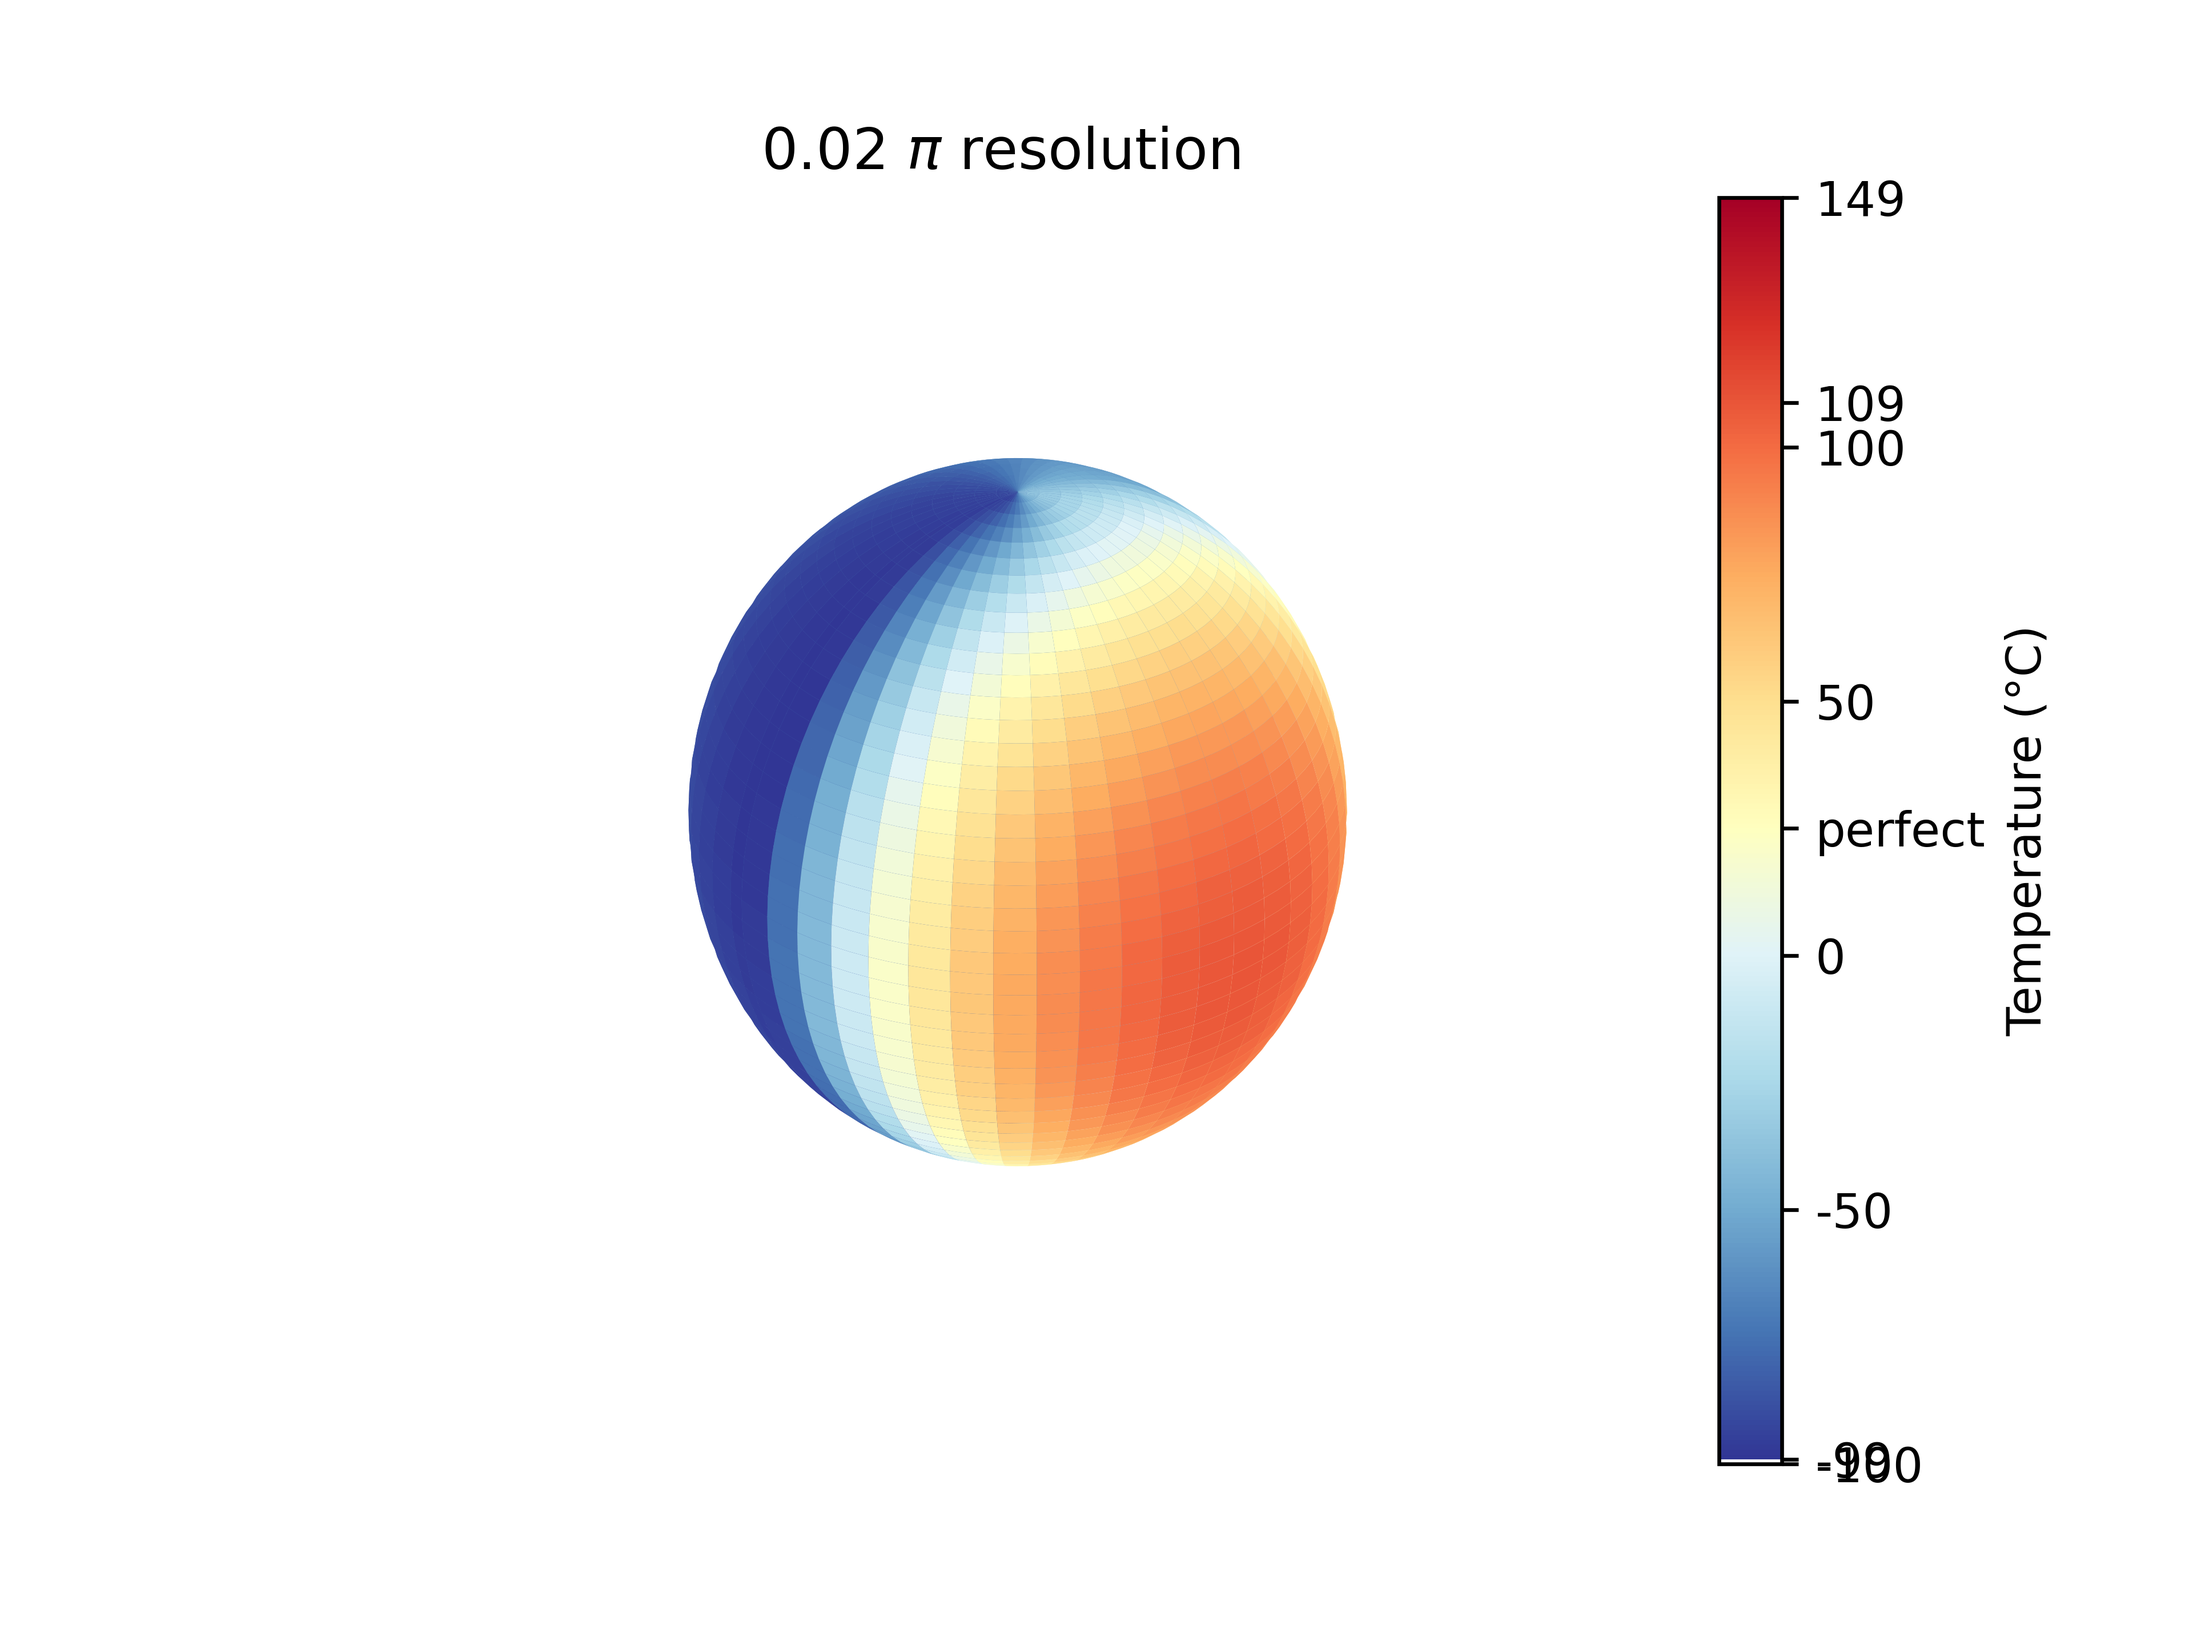
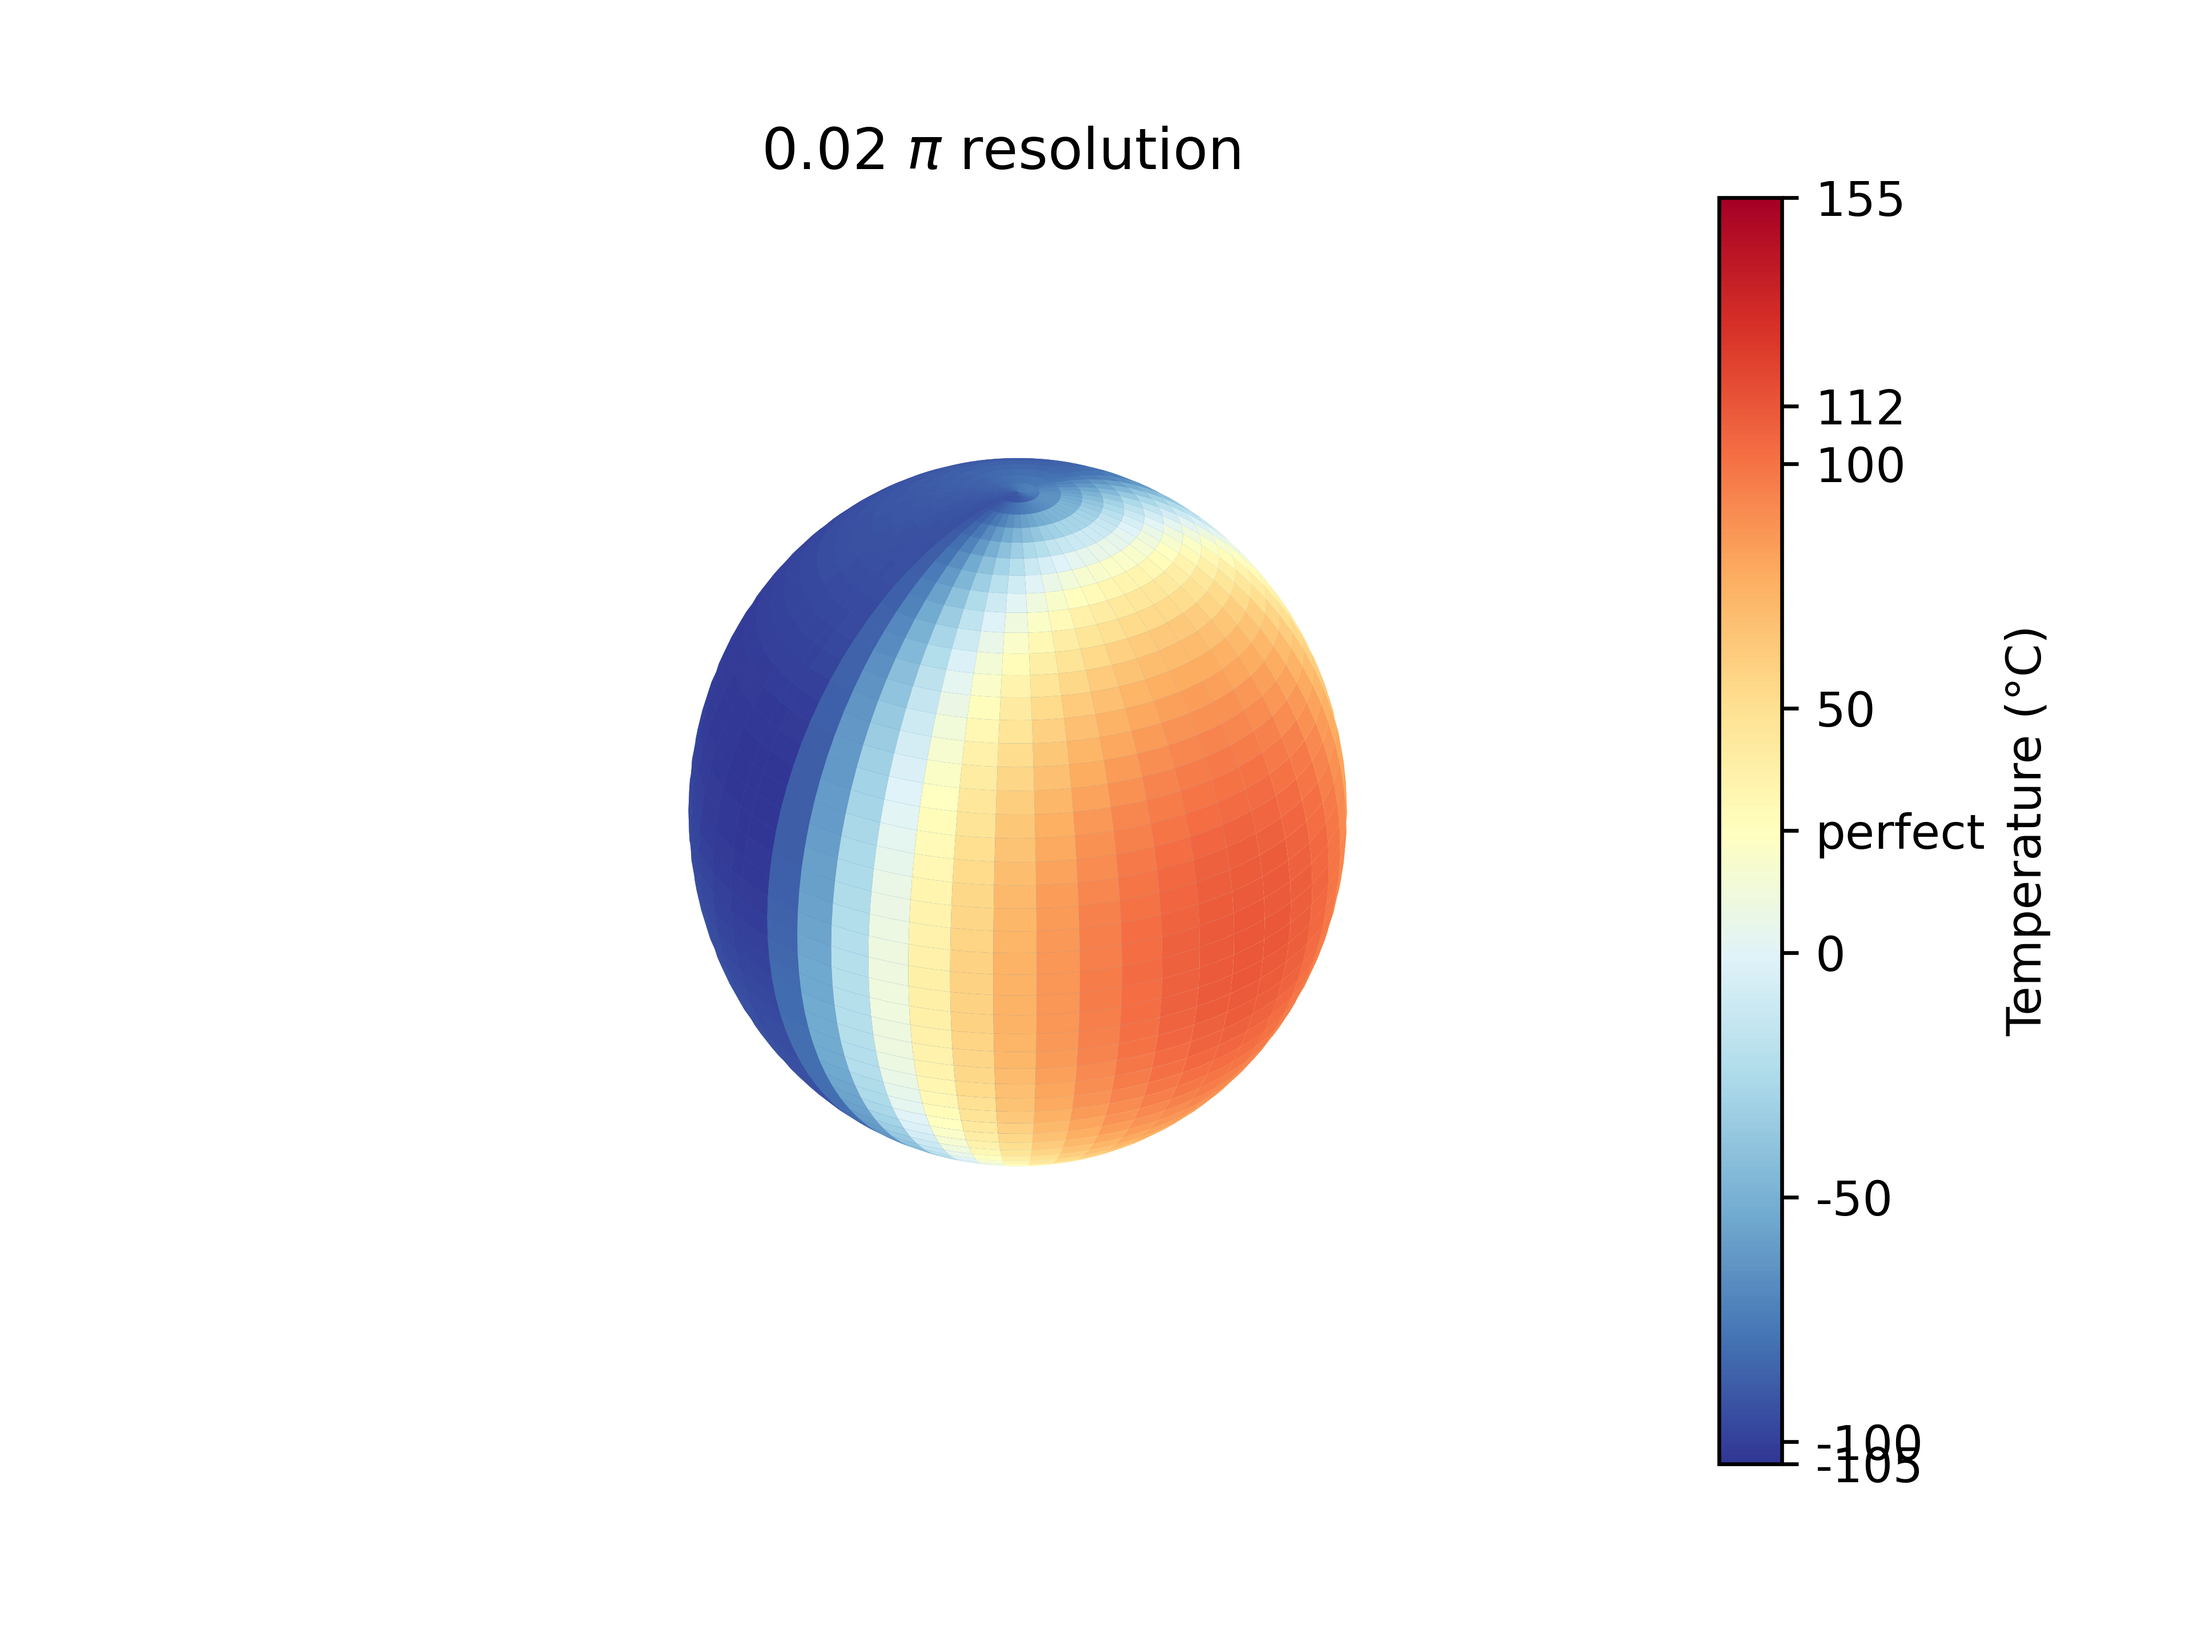
More

diff --git a/moon.py b/moon.py
@@ -19,13 +19,13 @@ alpha = k / (rho * Cp)  # Thermal diffusivity
 
 day_length = 27.3 * 24 * 3600  # Length of lunar day (s)
 rot_freq = 2 * np.pi / day_length  # Angular frequency of lunar rotation
-dr = 0.05  # Layer thickness
+dr = 0.1  # Layer thickness
 
 # Define grid resolution
 N_lay = 10  # Number of layers
 N_lat = 50  # Latitude divisions
 N_lon = 100  # Longitude divisions
-N_days = 5  # Number of moon days
+N_days = 160  # Number of moon days
 N_time = (N_days * 240) + 1   # number of times steps
 dt = 2.73 * 3600  # Time step (s) 1/240 moon days
 # dt = day_length / 200  # Time step (sec)
@@ -70,7 +70,9 @@ for t in range(N_time):
                 if l==0:
                     laplacian_T = (T[1, i, j] - T[l, i, j]) / dr**2 # no conductivity with vacuum
                       #T[1, i, j]
-                    # print(laplacian_T*alpha*dt)
+                    # print()
+                    # if j == 49 and t % 240 == 0:
+                    #     print(laplacian_T*alpha*dt)
                 elif l == N_lay-1:
                     laplacian_T = (T[l-1, i, j] + T[l, i, j] - 2*T[l, i, j]) / dr**2
                 else:
@@ -88,7 +90,10 @@ for t in range(N_time):
                         T_new[l, i, j] += (S * dt) / (rho * Cp * dr)  # Heat absorbed
                         # print(S * dt / (rho * Cp * thickness))
                     # Radiative cooling (Stefan-Boltzmann law)
-                    T_new[l, i, j] -= emissivity * sigma * T[l, i, j]**4 * dt / (rho * Cp * dr)
+                    emission = emissivity * sigma * T[l, i, j]**4 * dt / (rho * Cp * dr)
+                    T_new[l, i, j] -= emission
+                    if j == 49 and t % 240 == 0:
+                        print(emission)
                     # print(emissivity * sigma * T[l, i, j]**4 * dt / (rho * Cp * thickness))
                 T_new[l, i, j] = max(min(T_new[l, i, j], 500), 0)  # Keep within realistic lunar temperature limits
     
@@ -98,7 +103,7 @@ for t in range(N_time):
             print(T_new[0, :, :].max())
             print(T_new[0, :, :].min())
             print(np.abs(T_new[:, 12, :] - T_day[:, 12, :]).max())
-            if np.all(np.abs(T_new[:, 12, :] - T_day[:, 12, :]) < 1):
+            if np.all(np.abs(T_new[:, 12, :] - T_day[:, 12, :]) < 0.1):
                 T = T_new.copy()
                 break
             if np.any(T_new[0, :-1, :] == 0) or np.any(T_new[0, :, :] == 500):
@@ -112,7 +117,7 @@ for t in range(N_time):
 # Plot results
 temps = T[0, :, :] - 273  # Surface temperature (^oC)
 shape = temps.shape
-min_temp = temps[:, :].min()
+min_temp = temps[:-1, :].min()
 max_temp = temps.max()
 
 # Use below to make sphere same shape as temps, 
@@ -180,3 +185,26 @@ ax1.spines[["top", "right"]].set_visible(False)
 plt.savefig('cheeseMoon_eq.png', dpi=600, transparent=True)
 plt.show()
 
+fig1 = plt.figure()
+ax1 = fig1.add_subplot(111)
+ax1.plot(theta/np.pi, temps[12], c='k')
+ax1.spines[["left", "bottom"]].set_position(("data", 0)) # Puts x axis at y=0, can remove
+ax1.spines[["top", "right"]].set_visible(False)
+plt.savefig('cheeseMoon_N.png', dpi=600, transparent=True)
+plt.show()
+
+fig1 = plt.figure()
+ax1 = fig1.add_subplot(111)
+ax1.plot(theta/np.pi, temps[37], c='k')
+ax1.spines[["left", "bottom"]].set_position(("data", 0)) # Puts x axis at y=0, can remove
+ax1.spines[["top", "right"]].set_visible(False)
+plt.savefig('cheeseMoon_S.png', dpi=600, transparent=True)
+plt.show()
+
+fig1 = plt.figure()
+ax1 = fig1.add_subplot(111)
+ax1.plot(phi/np.pi, temps[:, 24], c='k')
+ax1.spines[["left", "bottom"]].set_position(("data", 0)) # Puts x axis at y=0, can remove
+ax1.spines[["top", "right"]].set_visible(False)
+plt.savefig('cheeseMoon_NS.png', dpi=600, transparent=True)
+plt.show()
